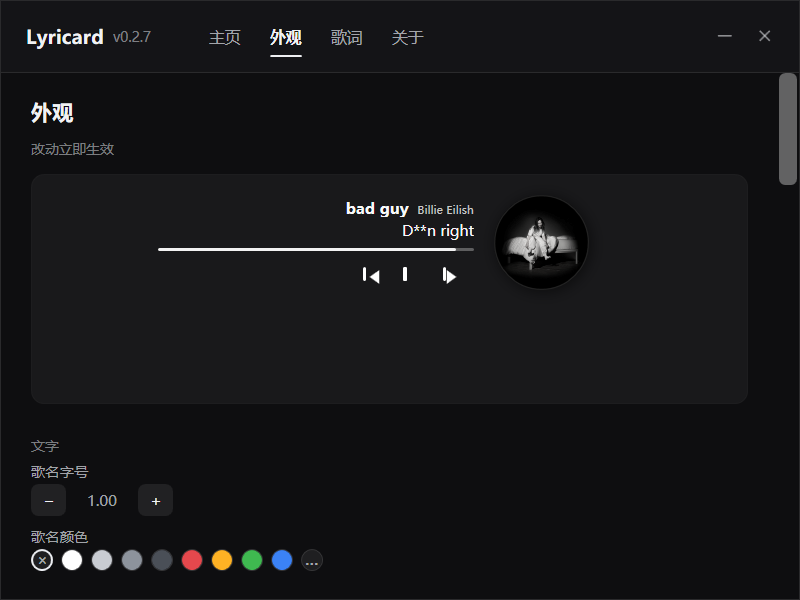
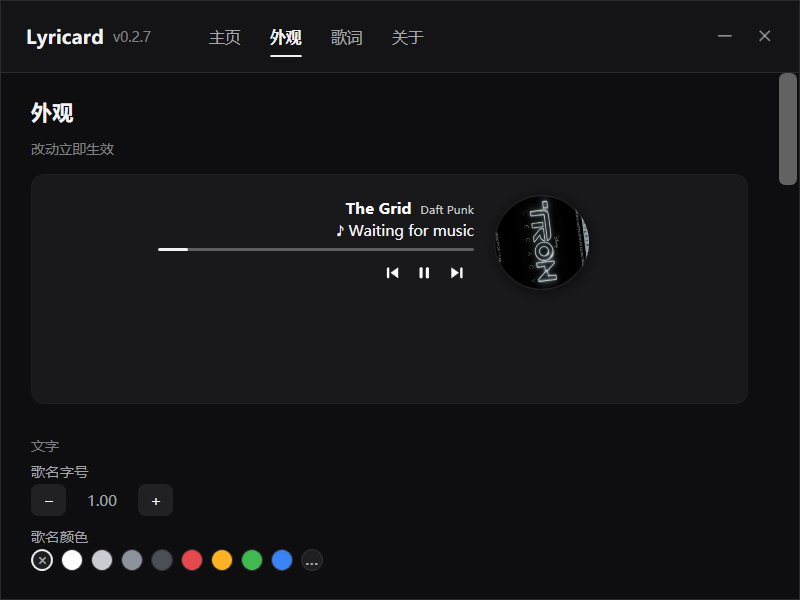
fix(renderer): place glyph bars and keep the disc turning on the board
Three separate defects behind 'rotation missing, buttons wrong':

- GlyphBar ignored its x/y arguments, so the pause glyph's two bars (and prev/next's
  side bar) all landed at 0,0 and stacked into a single stripe. They are positioned
  with Canvas.SetLeft/SetTop now.
- The buttons were built at a hardcoded 30 px with a 16 px glyph; at Scale 0.79 the
  row came out cramped. They scale through LayoutTransform by ControlsH / 30.
- RotateTransform was applied once in Build, so the board's disc froze at its first
  angle while the card kept spinning. Paint now updates the angle each frame.

Changed region(s): [[0.25, 0.33, 0.5938, 0.42], [0.625, 0.33, 0.75, 0.48], [0.4375, 0.45, 0.5938, 0.48]]

diff --git a/src/ModuleRenderer.cs b/src/ModuleRenderer.cs
@@ -172,12 +172,12 @@ namespace Amc
                 HorizontalAlignment = HorizontalAlignment.Right,
                 VerticalAlignment = VerticalAlignment.Center
             };
-            el.ControlsPanel.Children.Add(GlyphButton("prev", hooks == null ? null : hooks.Prev));
+            el.ControlsPanel.Children.Add(GlyphButton("prev", hooks == null ? null : hooks.Prev, ButtonScale(metrics)));
             Canvas playGlyph;
-            Grid playRoot = PlayButton(scene.Playing, hooks == null ? null : hooks.Play, out playGlyph);
+            Grid playRoot = PlayButton(scene.Playing, hooks == null ? null : hooks.Play, ButtonScale(metrics), out playGlyph);
             el.PlayGlyph = playGlyph;
             el.ControlsPanel.Children.Add(playRoot);
-            el.ControlsPanel.Children.Add(GlyphButton("next", hooks == null ? null : hooks.Next));
+            el.ControlsPanel.Children.Add(GlyphButton("next", hooks == null ? null : hooks.Next, ButtonScale(metrics)));
             el.ControlsHost = new Grid();
             el.ControlsHost.Children.Add(el.ControlsPanel);
             el.Controls = el.ControlsHost;
@@ -246,7 +246,18 @@ namespace Amc
             if (el.BarTrack != null) el.BarTrack.Background = scene.BarTrackBrush;
             if (el.BarFill != null) el.BarFill.Background = scene.BarFillBrush;
             if (el.ControlsPanel != null) ApplyControlsInk(el.ControlsPanel, scene.ControlsBrush);
-            if (el.ArtEllipse != null) el.ArtEllipse.Fill = scene.Artwork;
+            if (el.ArtEllipse != null)
+            {
+                el.ArtEllipse.Fill = scene.Artwork;
+                var rot = el.ArtEllipse.RenderTransform as RotateTransform;
+                if (rot == null)
+                {
+                    rot = new RotateTransform(scene.Spin);
+                    el.ArtEllipse.RenderTransformOrigin = new Point(0.5, 0.5);
+                    el.ArtEllipse.RenderTransform = rot;
+                }
+                else if (Math.Abs(rot.Angle - scene.Spin) > 0.05) rot.Angle = scene.Spin;
+            }
         }
 
         /// <summary>Width of the progress fill for a layout, clamped to the bar.</summary>
@@ -306,7 +317,7 @@ namespace Amc
 
         // ---- parts ----
 
-        static Grid GlyphButton(string kind, Action act)
+        static Grid GlyphButton(string kind, Action act, double k)
         {
             var root = new Grid
             {
@@ -327,10 +338,17 @@ namespace Amc
             FillGlyph(glyph, kind);
             root.Children.Add(glyph);
             if (act != null) root.MouseLeftButtonUp += delegate { act(); };
+            if (k > 0 && Math.Abs(k - 1.0) > 0.001) root.LayoutTransform = new ScaleTransform(k, k);
             return root;
         }
 
-        static Grid PlayButton(bool playing, Action act, out Canvas glyphOut)
+        /// <summary>Uniform scale for a button: 1.0 at the desktop card, smaller on the board.</summary>
+        static double ButtonScale(CardMetrics m)
+        {
+            return m == null || m.ControlsH <= 0 ? 1.0 : m.ControlsH / 30.0;
+        }
+
+        static Grid PlayButton(bool playing, Action act, double k, out Canvas glyphOut)
         {
             var glyph = new Canvas
             {
@@ -351,6 +369,11 @@ namespace Amc
             };
             root.Children.Add(glyph);
             if (act != null) root.MouseLeftButtonUp += delegate { act(); };
+            if (k > 0 && Math.Abs(k - 1.0) > 0.001)
+            {
+                // scale the whole button, glyph included, so the board gets the same drawing
+                root.LayoutTransform = new ScaleTransform(k, k);
+            }
             glyphOut = glyph;
             return root;
         }
@@ -381,7 +404,12 @@ namespace Amc
 
         static Rectangle GlyphBar(double x, double y, double w, double h)
         {
-            return new Rectangle { Width = w, Height = h, RadiusX = 1.2, RadiusY = 1.2, Fill = Brushes.White };
+            var bar = new Rectangle { Width = w, Height = h, RadiusX = 1.2, RadiusY = 1.2, Fill = Brushes.White };
+            // The pause glyph is two bars and prev/next is one; without these the bars all sat at
+            // 0,0 and stacked into a single stripe — which is exactly what the board showed.
+            Canvas.SetLeft(bar, x);
+            Canvas.SetTop(bar, y);
+            return bar;
         }
 
         static Path GlyphTri(string data)
